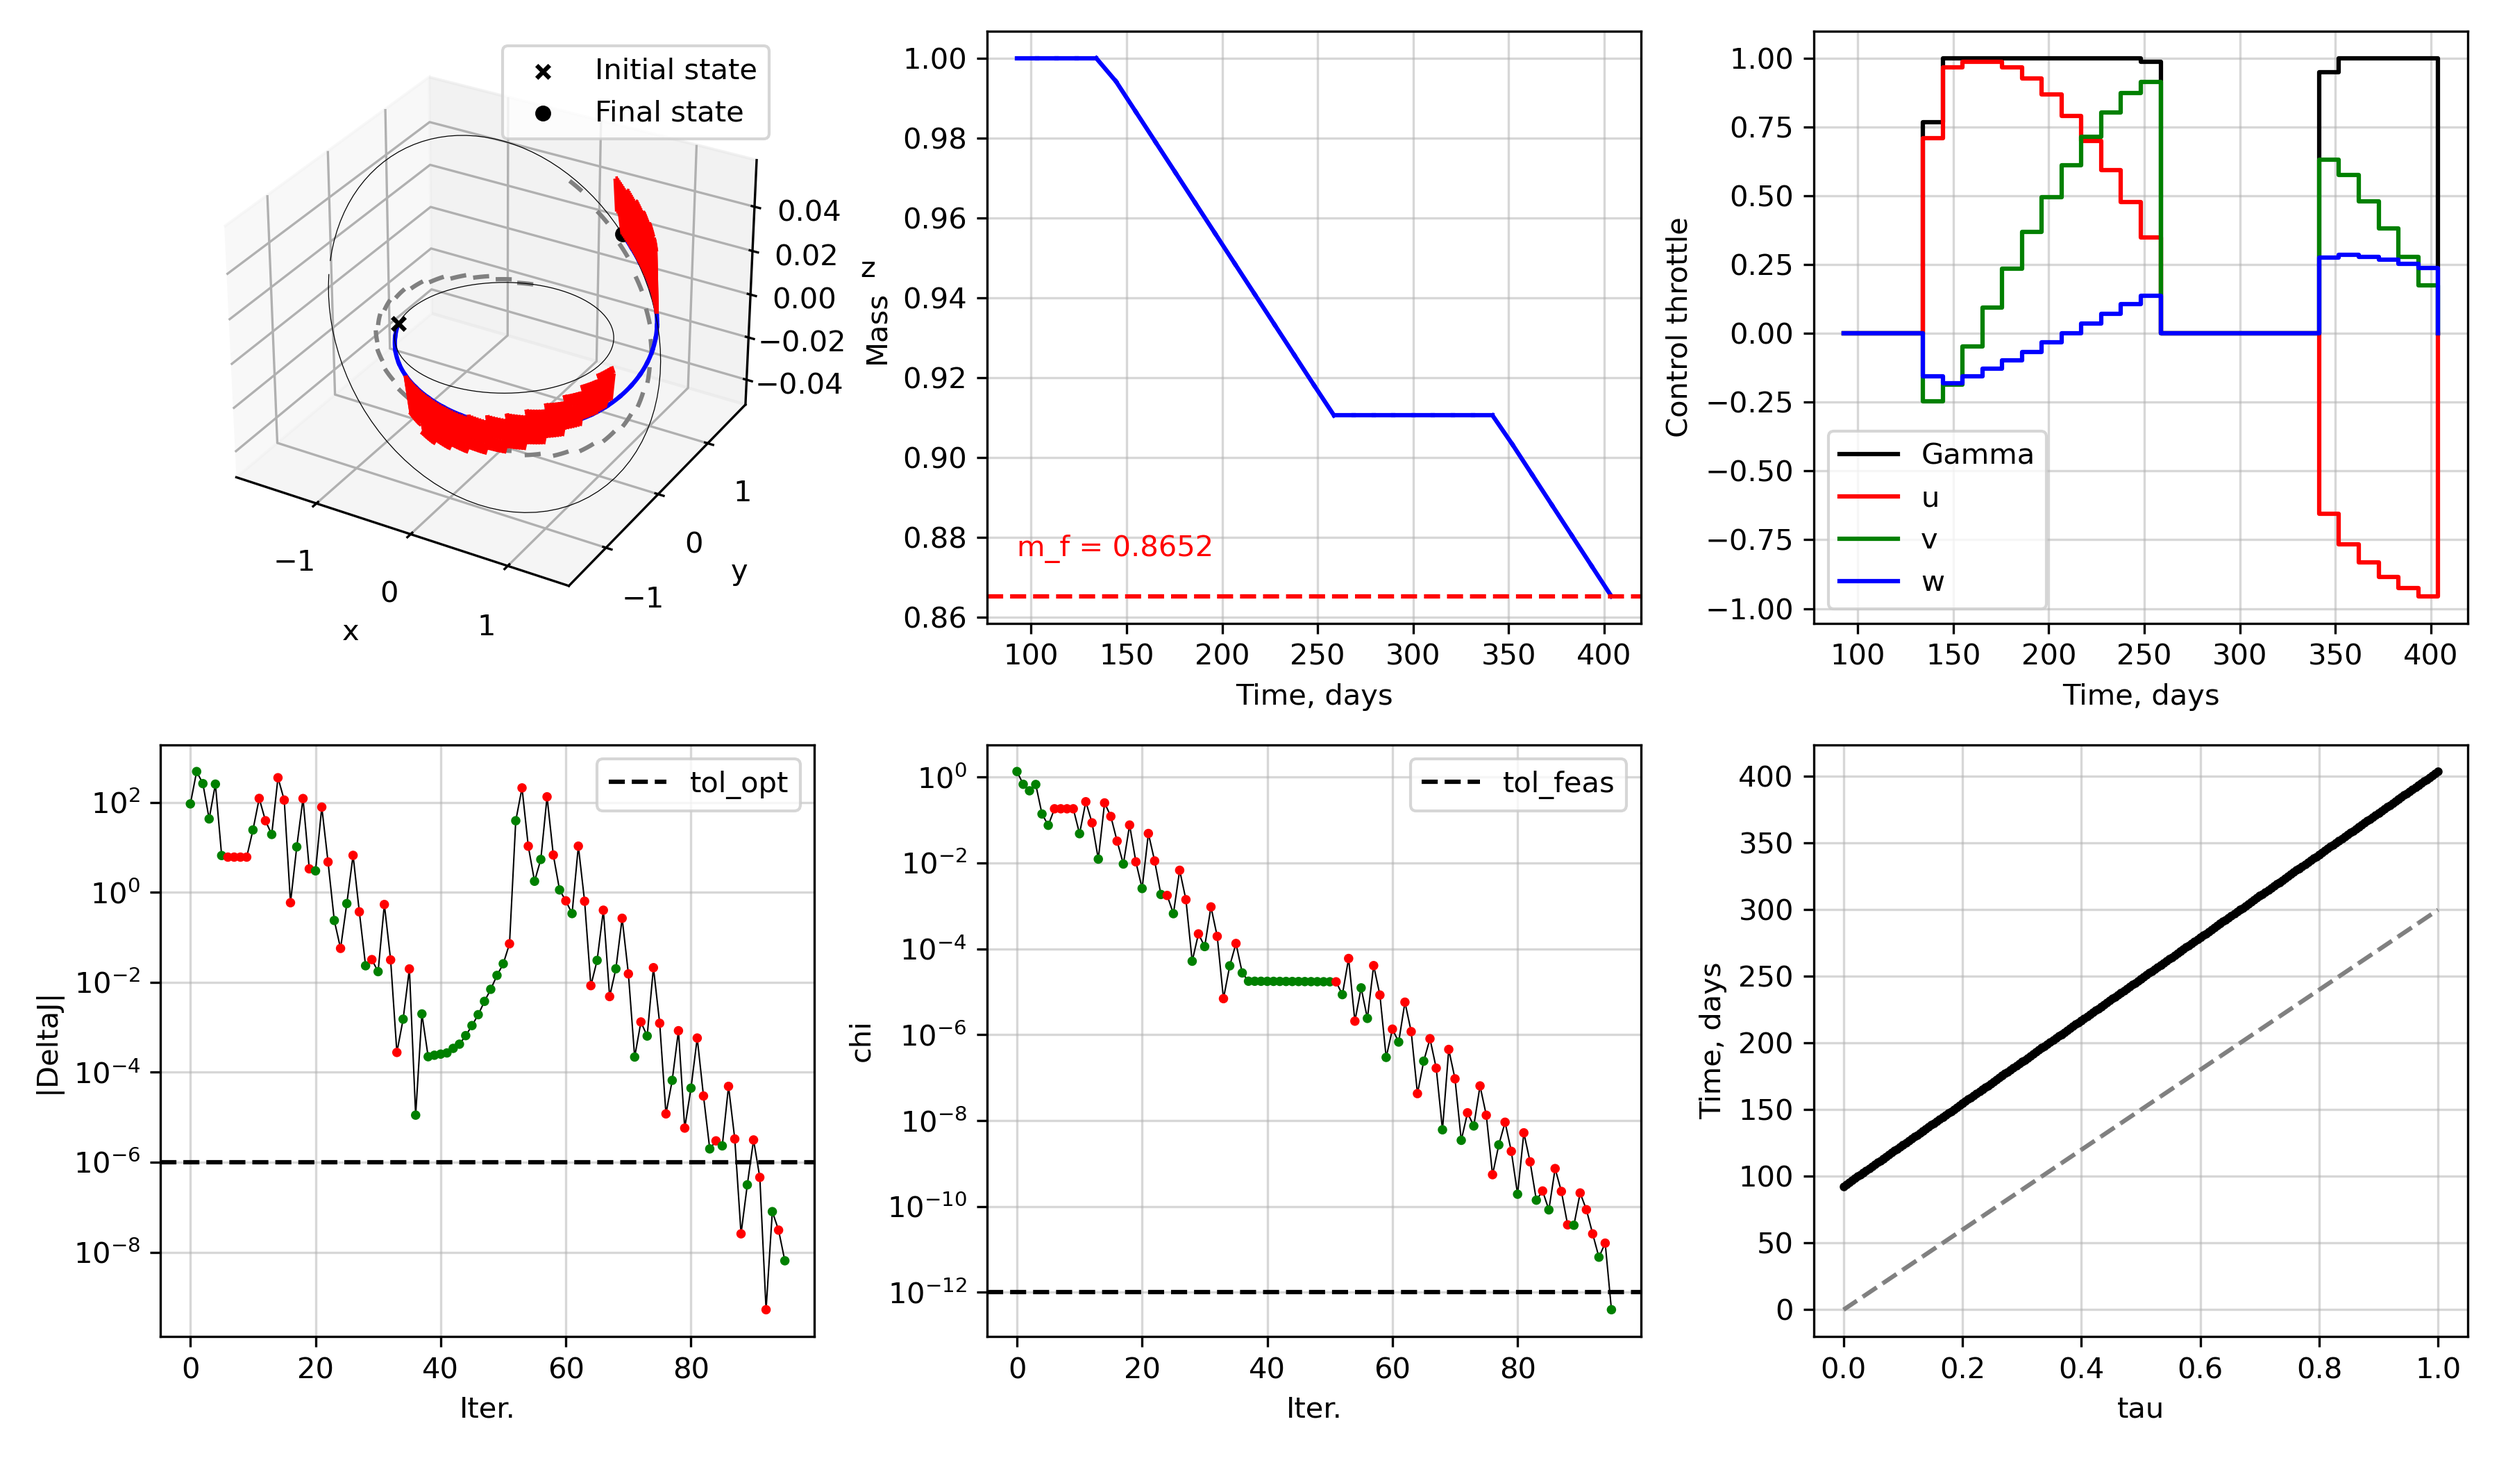
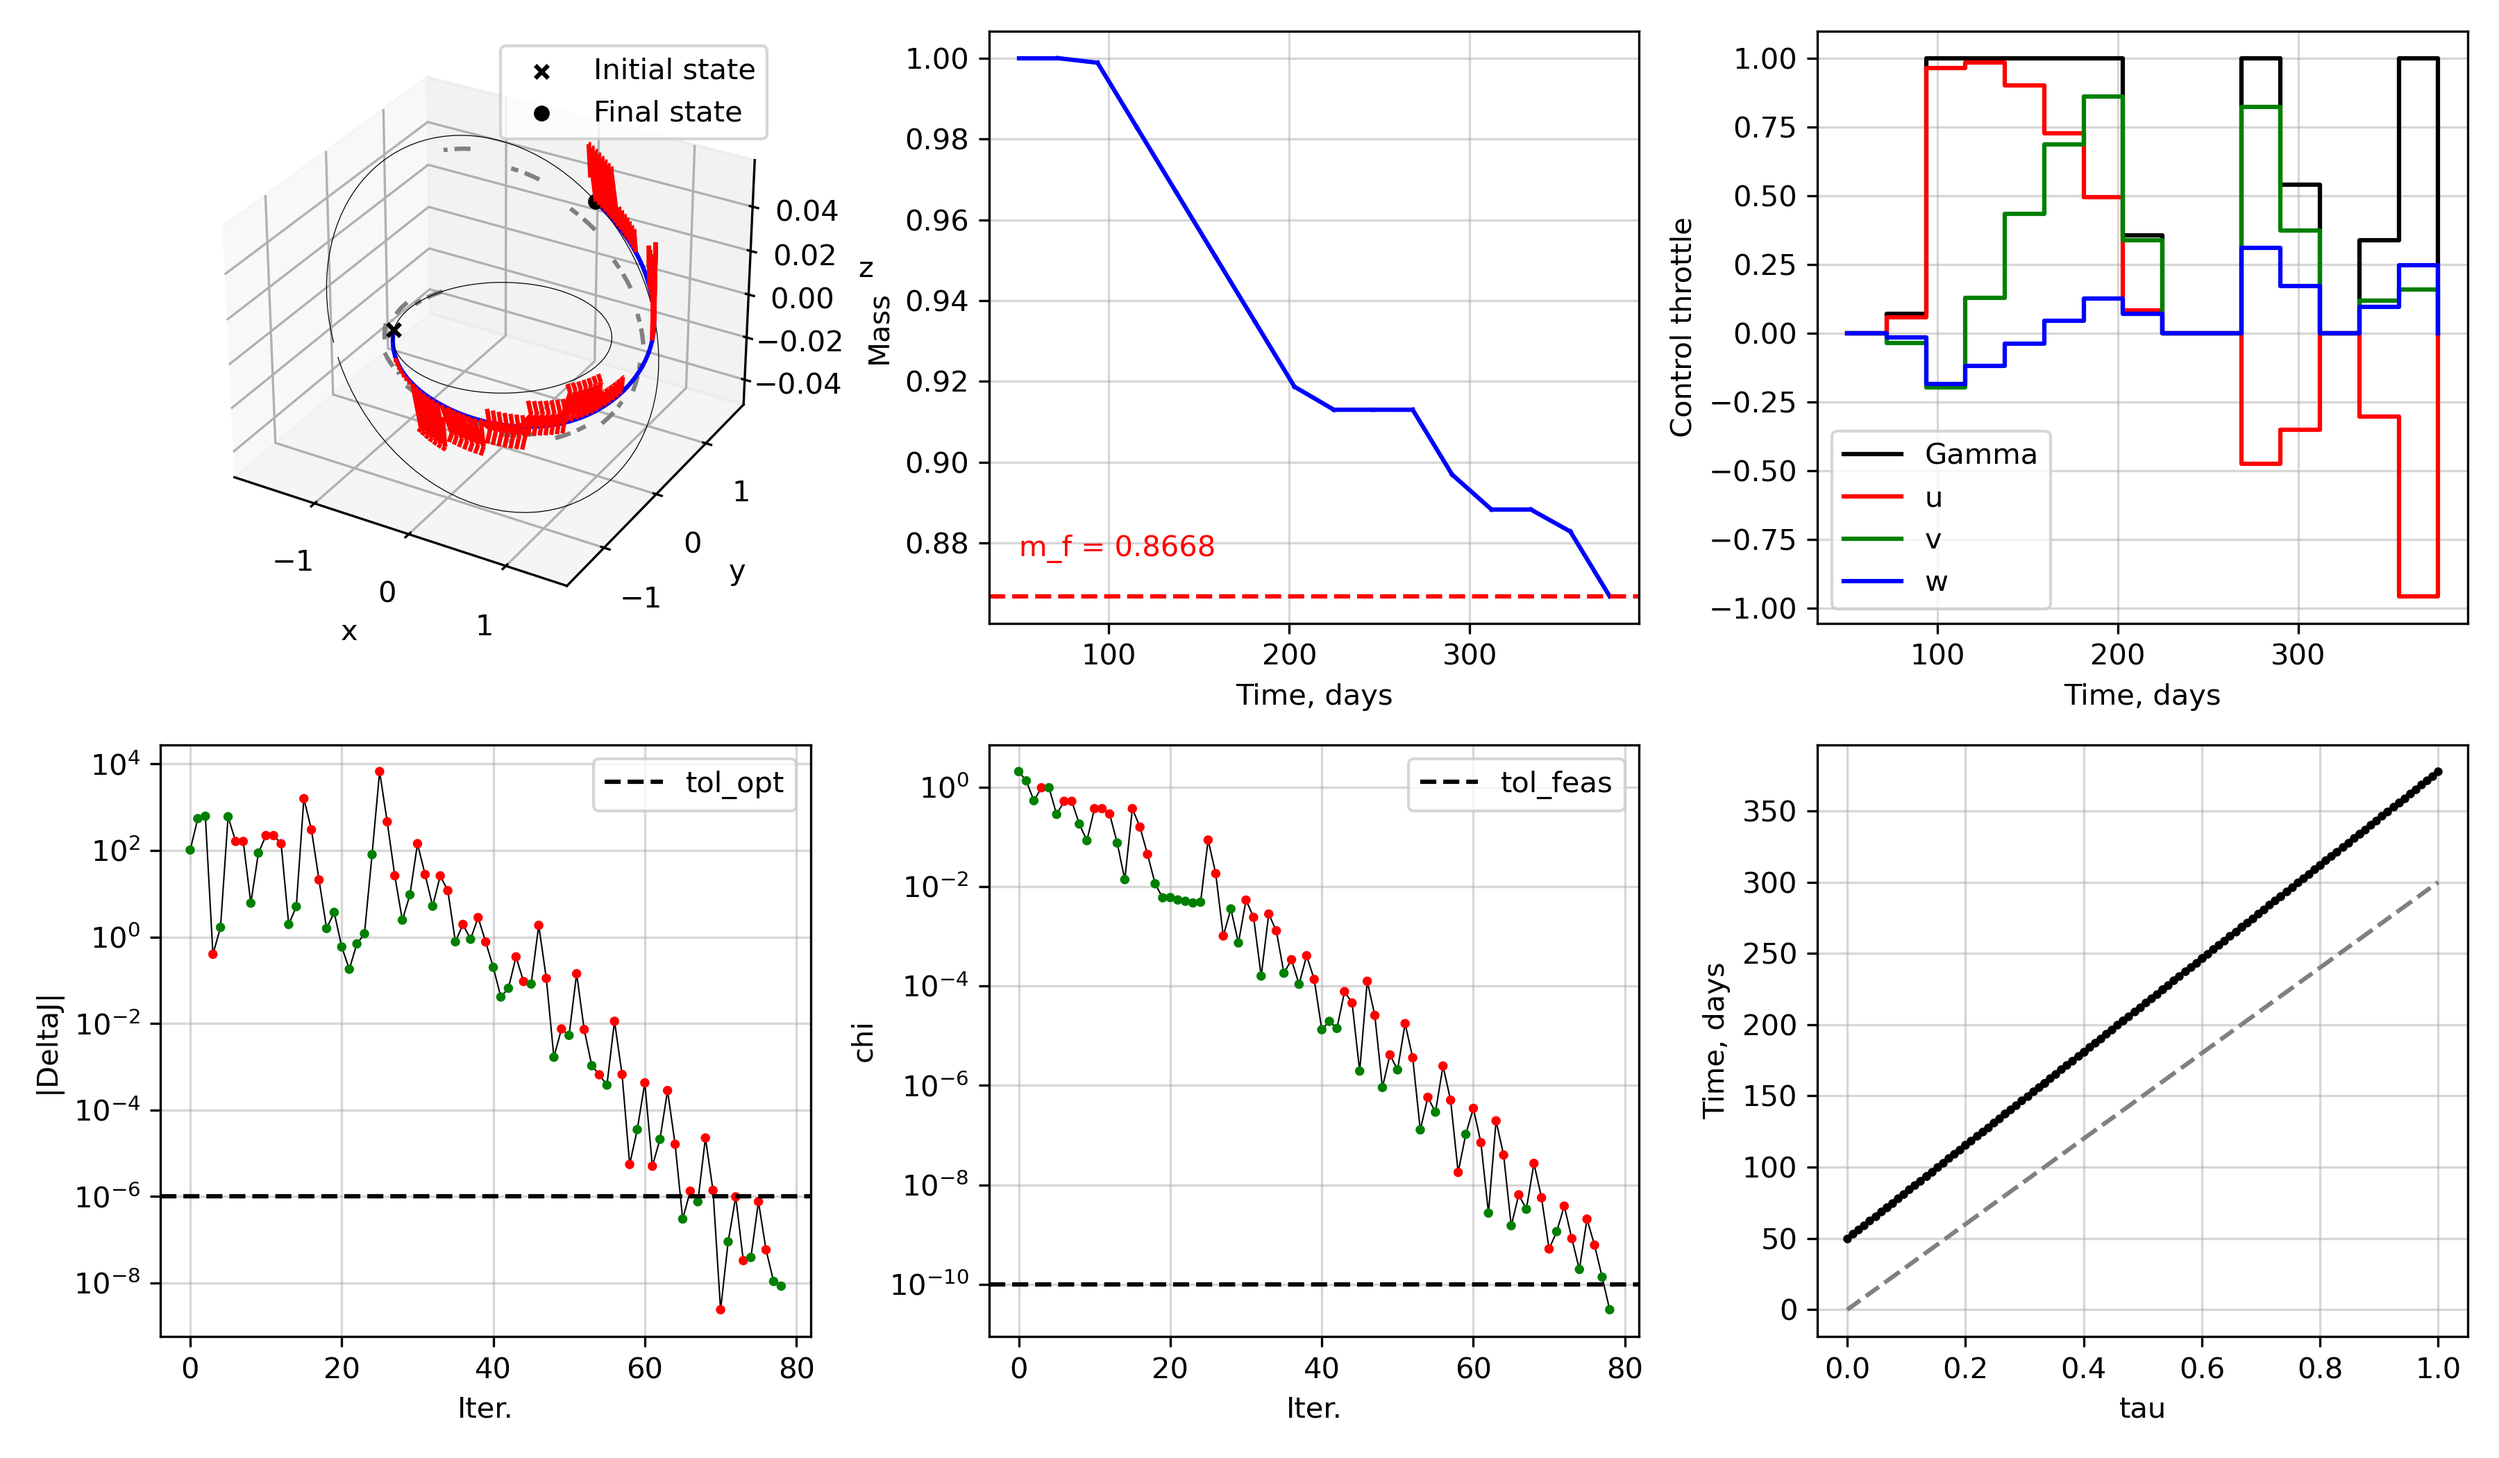
benchmark init

diff --git a/scocp_pykep/_scocp_pl2pl_warmstart.py b/scocp_pykep/_scocp_pl2pl_warmstart.py
@@ -1,0 +1,155 @@
+"""Warm-started pl2pl SCP"""
+
+import copy
+import cvxpy as cp
+import numpy as np
+import pykep as pk
+
+import os
+import sys
+sys.path.append(os.path.join(os.path.dirname(os.path.abspath(__file__)), ".."))
+
+from scocp import (
+    get_augmented_lagrangian_penalty,
+    ContinuousControlSCOCP,
+    rhs_twobody,
+    mee2rv,
+    rv2mee,
+    keplerder_nostm,
+)
+from ._scocp_pl2pl import scocp_pl2pl
+
+
+class scocp_pl2pl_warmstart(scocp_pl2pl):
+    """Warm-start variant of `scocp_pl2pl`
+    
+    This class inherits from `scocp_pl2pl` and uses a warm-start strategy to speed up the solution process.
+    """
+    def __init__(self, *args, **kwargs):
+        super().__init__(*args, **kwargs)
+
+        # construct convex program
+        self.create_convex_program()
+        return
+    
+    def create_convex_program(self):
+        """Solve the convex subproblem"""
+        N = self.N
+        nx = self.integrator.nx
+        nu = self.integrator.nu
+        Nseg = N - 1
+        
+        # reference variables
+        self.xbar = cp.Parameter((N, nx), name='reference state')
+        self.ubar = cp.Parameter((Nseg, nu), name='reference control')
+        self.vbar = cp.Parameter((Nseg, 1), name='reference constraint')
+        self.ybar = cp.Parameter((self.ny,), name='reference v-infinity vectors')
+
+        self.pl0_rv = cp.Parameter((6,), name='departure planet state')
+        self.plf_rv = cp.Parameter((6,), name='arrival planet state')
+        self.pl0_rv_dot = cp.Parameter((6,), name='departure planet state derivative')
+        self.plf_rv_dot = cp.Parameter((6,), name='arrival planet state derivative')
+
+        self.weight_param = cp.Parameter((), name='weight parameter')
+        self.lmb_dynamics_param = cp.Parameter((Nseg,nx), name='lmb_dynamics parameter')
+        self.lmb_eq_param = cp.Parameter((self.ng,), name='lmb_eq parameter')
+
+        # variables
+        self.xs      = cp.Variable((N, nx), name='state')
+        self.us      = cp.Variable((Nseg, nu), name='control')
+        self.vs      = cp.Variable((Nseg, 1), name='Gamma')
+        self.ys      = cp.Variable((self.ny,), name='v-infinity vectors')
+        self.xis_dyn = cp.Variable((Nseg,nx), name='xi_dyn')     # slack for dynamics
+        self.xis     = cp.Variable((self.ng,), name='xi')        # slack for target state
+        
+        penalty = get_augmented_lagrangian_penalty(
+            self.weight_param,
+            self.xis_dyn,
+            self.lmb_dynamics_param,
+            xi=self.xis,
+            lmb_eq=self.lmb_eq_param,
+        )
+        objective_func = self.evaluate_objective(self.xs, self.us, self.vs, self.ys) + penalty
+        constraints_objsoc = [cp.SOC(self.vs[i,0], self.us[i,0:3]) for i in range(N-1)]
+        constraints_control = [self.vs[i,0] <= 1.0 for i in range(Nseg)]
+        
+        # constraints on dynamics for state and control
+        constraints_dyn = [
+            self.xs[i+1,:] == self.Phi_A[i,:,:] @ self.xs[i,:] + self.Phi_B[i,:,0:4] @ self.us[i,:] + self.Phi_B[i,:,4] * self.vs[i,:] + self.Phi_c[i,:] + self.xis_dyn[i,:]
+            for i in range(Nseg)
+        ]
+
+        if self.uniform_dilation:
+            constraints_dilation = [self.us[i,3] == self.us[0,3] for i in range(1,Nseg)]
+        else:
+            constraints_dilation = []
+
+        # trust region constraints 
+        constraints_trustregion = [
+            self.xs[i,:] - self.xbar[i,:] <= self.trust_region_radius for i in range(N)
+        ] + [
+            self.xs[i,:] - self.xbar[i,:] >= -self.trust_region_radius for i in range(N)
+        ]
+
+        # boundary conditions
+        constraints_boundary = [
+            self.xs[0,0:6] - np.concatenate((np.zeros((3,3)), np.eye(3))) @ self.ys[0:3] \
+                - self.pl0_rv - self.pl0_rv_dot * (self.xs[0,7] - self.xbar[0,7]) == self.xis[0:6],
+            self.xs[0,6] == self.mass0,
+            self.xs[-1,0:6] - np.concatenate((np.zeros((3,3)), np.eye(3))) @ self.ys[3:6] \
+                - self.plf_rv - self.plf_rv_dot * (self.xs[-1,7] - self.xbar[-1,7]) == self.xis[6:12]
+        ]
+        constraints_vinf_mag = [
+            cp.SOC(self.vinf_dep, self.ys[0:3]),
+            cp.SOC(self.vinf_arr, self.ys[3:6]),
+        ]
+        
+        # constraints on times
+        if abs(self.t0_bounds[1] - self.t0_bounds[0]) < 1e-12:
+            constraints_t0 = [self.xs[0,7] == self.t0_bounds[0]]
+        else:
+            constraints_t0 = [self.t0_bounds[0] <= self.xs[0,7],
+                              self.xs[0,7] <= self.t0_bounds[1]]
+        constraints_tf = [self.tf_bounds[0] <= self.xs[-1,7],
+                          self.xs[-1,7] <= self.tf_bounds[1]]
+        constraints_s = [self.s_bounds[0] <= self.us[i,3] for i in range(Nseg)] + [self.us[i,3] <= self.s_bounds[1] for i in range(Nseg)]
+
+        self.convex_problem = cp.Problem(
+            cp.Minimize(objective_func),
+            constraints_objsoc + constraints_dyn + constraints_trustregion +\
+            constraints_boundary + constraints_vinf_mag + constraints_control +\
+            constraints_t0 + constraints_tf + constraints_s + constraints_dilation)
+        return
+    
+    def solve_convex_problem(self, xbar, ubar, vbar, ybar=None):
+        """Solve the convex subproblem
+        
+        Args:
+            xbar (np.array): `(N, self.integrator.nx)` array of reference state history
+            ubar (np.array): `(N-1, self.integrator.nu)` array of reference control history
+            vbar (np.array): `(N-1, self.integrator.nv)` array of reference constraint history
+            ybar (np.array): `(N, self.integrator.ny)` array of reference v-infinity vectors
+
+        Returns:
+            (tuple): np.array values of xs, us, gs, xi_dyn, xi_eq, zeta_ineq
+        """
+        # set parameters
+        self.xbar.value = xbar[:,:]
+        self.ubar.value = ubar[:,:]
+        self.vbar.value = vbar[:,:]
+        self.ybar.value = ybar[:]
+
+        self.pl0_rv.value = self.target_initial.target_state(self.xbar[0,7].value)
+        self.plf_rv.value = self.target_final.target_state(self.xbar[-1,7].value)
+        self.pl0_rv_dot.value = self.target_initial.target_state_derivative(self.xbar[0,7].value)
+        self.plf_rv_dot.value = self.target_final.target_state_derivative(self.xbar[-1,7].value)
+
+        self.weight_param.value = self.weight
+        self.lmb_dynamics_param.value = self.lmb_dynamics[:,:]
+        self.lmb_eq_param.value = self.lmb_eq[:]
+        
+        # solve convex problem
+        self.convex_problem.solve(solver = self.solver, verbose = self.verbose_solver)
+        self.cp_status = self.convex_problem.status
+        return self.xs.value, self.us.value, self.vs.value, self.ys.value, self.xis_dyn.value, self.xis.value, None
+    

diff --git a/examples/benchmark_cputime.py b/examples/benchmark_cputime.py
@@ -38,7 +38,7 @@ def example_pl2pl(use_heyoka=True, get_plot=False, N_retry: int = 3):
     tf_bounds = [1450.0, 1650.0]
     t0_guess = t0_mjd2000_bounds[0]
     tf_guess = tf_bounds[0]
-    N = 8
+    N = 15
     s_bounds = [0.01*tf_guess, 10*tf_guess]
 
     # max v-infinity vector magnitudes
@@ -84,6 +84,7 @@ def example_pl2pl(use_heyoka=True, get_plot=False, N_retry: int = 3):
         )
 
     # create problem
+    #problem = scocp_pykep.scocp_pl2pl_warmstart(
     problem = scocp_pykep.scocp_pl2pl(
         integrator_01domain,
         pl0,
@@ -106,6 +107,9 @@ def example_pl2pl(use_heyoka=True, get_plot=False, N_retry: int = 3):
     t_cpus = []
     t_scp = []
     t_cvx = []
+    t_scp_accepted = []
+    t_cvx_accepted = []
+    step_accept = []
     for i_retry in range(N_retry):
         print(f" **** SCvx* retry {i_retry+1} of {N_retry} **** ")
         # create initial guess
@@ -125,36 +129,52 @@ def example_pl2pl(use_heyoka=True, get_plot=False, N_retry: int = 3):
             vbar,
             ybar = ybar,
             maxiter = 200,
-            verbose = False
+            verbose = N_retry==1
         )
         t_cpus.append(time.time() - t_start)
         xopt, uopt, vopt, yopt, sols, summary_dict = solution.x, solution.u, solution.v, solution.y, solution.sols, solution.summary_dict
         t_cvx.append(summary_dict["t_cvx"])
         t_scp.append(summary_dict["t_scp"])
-        assert summary_dict["status"] == "Optimal"
-        assert summary_dict["chi"][-1] <= tol_feas
-        print(f"    CPU time: {t_cpus[-1]:1.4f} seconds\n")
+        step_accept.append(summary_dict["accept"])
+
+        _tc_accepted = []
+        _ts_accepted = []
+        for (a,tc,ts) in zip(summary_dict["accept"], summary_dict["t_cvx"], summary_dict["t_scp"]):
+            if a == 1:
+                _tc_accepted.append(tc)
+                _ts_accepted.append(ts)
+        t_cvx_accepted.append(_tc_accepted)
+        t_scp_accepted.append(_ts_accepted)
+        #assert summary_dict["status"] == "Optimal"
+        #assert summary_dict["chi"][-1] <= tol_feas
+        fraction_of_cvx_time = np.divide(t_cvx_accepted[-1], t_scp_accepted[-1])
+        print(f"    Total CPU time                           : {t_cpus[-1]:1.4f} seconds")
+        print(f"    Mean SCP iteration time (accepted steps) : {np.mean(t_scp_accepted[-1]):1.4f} seconds")
+        print(f"    Mean CVX time           (accepted steps) : {np.mean(t_cvx_accepted[-1]):1.4f} seconds")
+        print(f"    Fraction of CVX time    (accepted steps) : {100*np.mean(fraction_of_cvx_time):1.4f}%\n")
 
     problem.pretty(solution)
 
     # plot CPU time per iteration
-    fig = plt.figure(figsize=(12,7))
+    fig = plt.figure(figsize=(12,5))
     ax = fig.add_subplot(121)
     ax.grid(True, alpha=0.5)
     ax.set(xlabel="Iteration", ylabel="SCP iteration time, s")
-    for ts in t_scp:
-        ax.plot(np.array(ts), marker="x")
+    for (ts, accept) in zip(t_scp_accepted, step_accept):
+        iters = np.arange(len(ts))
+        ax.plot(iters, ts)#, marker=['o' if a == 1 else 'x' for a in accept])
     
     ax_cpu = fig.add_subplot(122)
     ax_cpu.grid(True, alpha=0.5)
     ax_cpu.set(xlabel="Iteration", ylabel="Convex program time, s")
-    for ts in t_cvx:
-        ax_cpu.plot(np.array(ts), marker="x")
+    for (ts, accept) in zip(t_cvx_accepted, step_accept):
+        iters = np.arange(len(ts))
+        ax_cpu.plot(iters, ts)#, marker=['o' if a == 1 else 'x' for a in accept])
     plt.tight_layout()
 
     # evaluate nonlinear violations
     geq_nl_opt, sols = problem.evaluate_nonlinear_dynamics(xopt, uopt, vopt, steps=8)
-    assert np.max(np.abs(geq_nl_opt)) <= tol_feas
+    #assert np.max(np.abs(geq_nl_opt)) <= tol_feas
 
     # extract solution
     ts_mjd2000, states, controls, v_infinities = problem.process_solution(solution)

diff --git a/scocp/_misc.py b/scocp/_misc.py
@@ -45,11 +45,13 @@ def get_augmented_lagrangian_penalty(weight, xi_dyn, lmb_dyn, xi=None, lmb_eq=No
         penalty += lmb_dyn[i,:] @ xi_dyn[i,:]
     if xi is not None:
         penalty += weight/2 * cp.sum_squares(xi)
-        for i in range(len(lmb_eq)):
+        #for i in range(len(lmb_eq)):
+        for i,_ in enumerate(lmb_eq):
             penalty += lmb_eq[i] * xi[i]
     if zeta is not None:
         penalty += weight/2 * cp.sum_squares(zeta)
-        for i in range(len(lmb_ineq)):
+        #for i in range(len(lmb_ineq)):
+        for i,_ in enumerate(lmb_ineq):
             penalty += lmb_ineq[i] * zeta[i]
     return penalty
 

diff --git a/scocp_pykep/_scocp_pl2pl.py b/scocp_pykep/_scocp_pl2pl.py
@@ -325,7 +325,7 @@ class scocp_pl2pl_logmass(ContinuousControlSCOCP):
         ] + [
             xs[i,0:7] - xbar[i,0:7] >= -self.trust_region_radius for i in range(N)
         ]
-
+        
         # boundary conditions
         constraints_boundary = [
             xs[0,0:6] - np.concatenate((np.zeros((3,3)), np.eye(3))) @ ys[0:3] \
@@ -834,3 +834,5 @@ class scocp_pl2pl(ContinuousControlSCOCP):
             solution.y[3:6] * v_scaling,
         ]
         return times, states, controls, v_infinities
+
+

diff --git a/scocp_pykep/__init__.py b/scocp_pykep/__init__.py
@@ -20,3 +20,4 @@ from ._heyoka_cr3bp import get_heyoka_integrator_cr3bp
 from ._heyoka_twobody import get_heyoka_integrator_twobody_logmass, get_heyoka_integrator_twobody_mass
 from ._integrator_heyoka import HeyokaIntegrator
 from ._scocp_pl2pl import PlanetTarget, scocp_pl2pl_logmass, scocp_pl2pl
+from ._scocp_pl2pl_warmstart import scocp_pl2pl_warmstart
